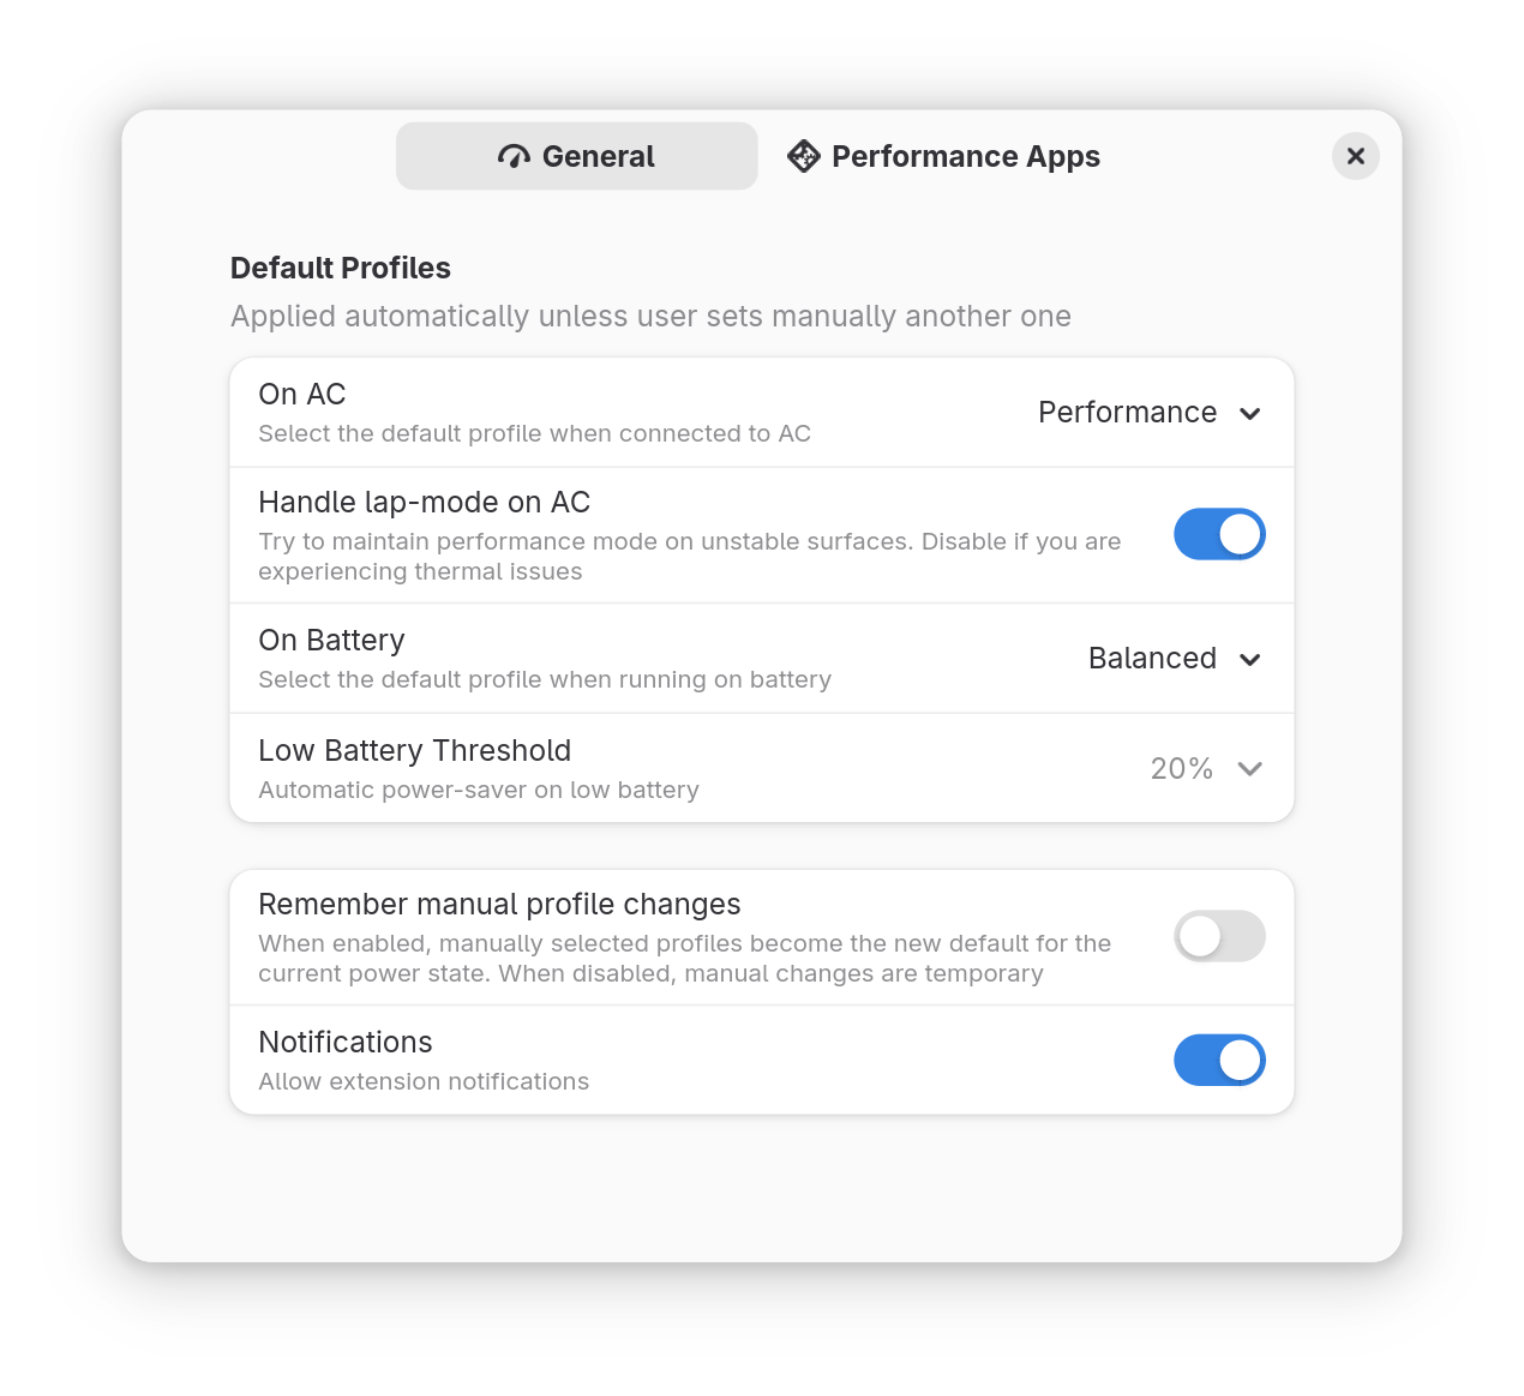
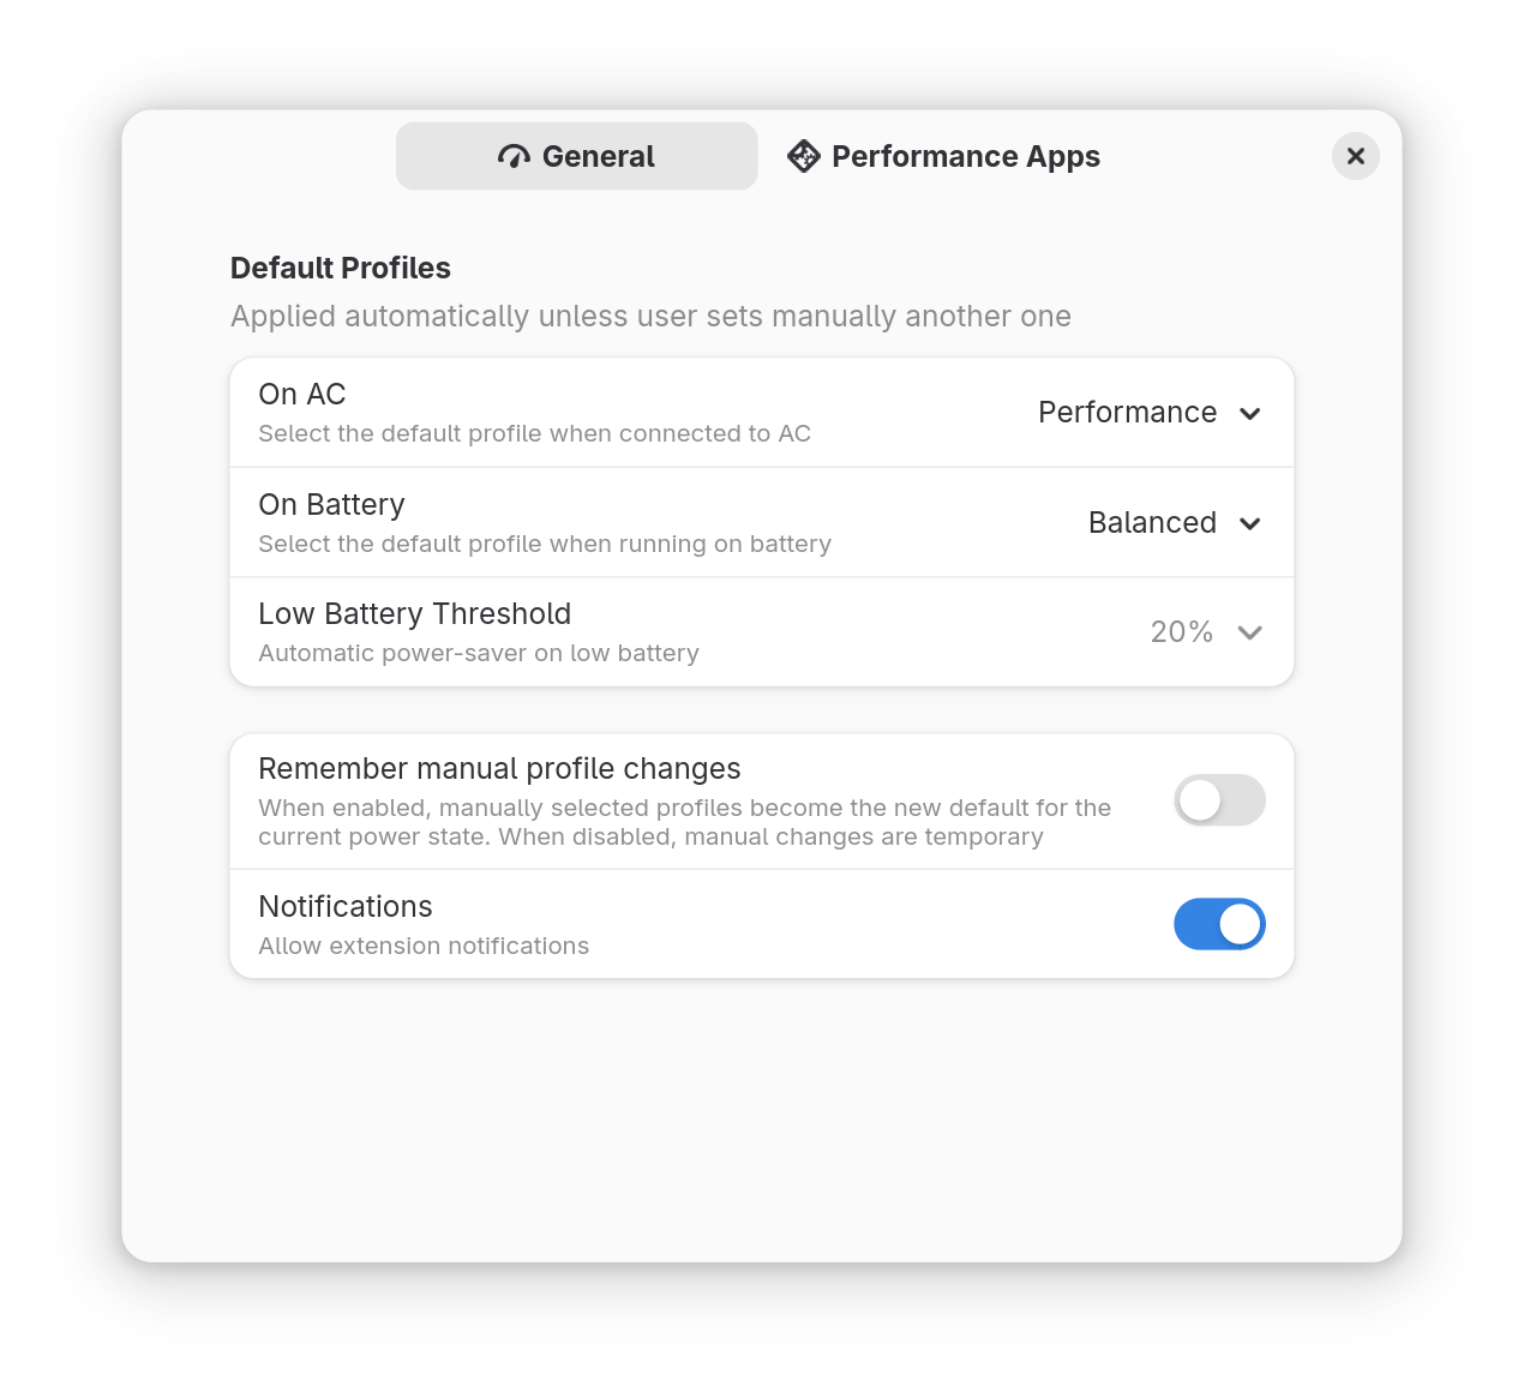
Minor bugfixes, remove confusing "lap-mode" toggle from prefs (#41)

diff --git a/extension.js b/extension.js
@@ -22,6 +22,7 @@ export default class AutoPowerProfile extends Extension {
   _requestedProfile;
 
   _perfDebounceTimerId;
+  _perfDebounceTimeout = 10;
 
   _notifier;
 
@@ -144,6 +145,10 @@ export default class AutoPowerProfile extends Extension {
     const payload = properties?.deep_unpack();
     const powerState = this._getConfiguredPowerState();
 
+    if (!powerState) {
+      return;
+    }
+
     if (payload?.ActiveProfile) {
       if (this._perfDebounceTimerId) {
         GLib.Source.remove(this._perfDebounceTimerId);
@@ -155,11 +160,11 @@ export default class AutoPowerProfile extends Extension {
 
         if (this._currentProfile === this._requestedProfile) {
           // This was our requested change - mark as complete
-          this.requestedProfile = null;
+          this._requestedProfile = null;
         } else {
           // This appears to be a user-initiated change
           this._onUserProfileChange(this._currentProfile, powerState);
-          this.requestedProfile = null;
+          this._requestedProfile = null;
         }
       }
     }
@@ -168,13 +173,16 @@ export default class AutoPowerProfile extends Extension {
       try {
         const reason = payload?.PerformanceDegraded?.unpack();
 
-        if (reason === "lap-detected" && this._settings.lapModeEnabled) {
+        if (reason === "lap-detected") {
+          // the computer is sitting on the user's lap
+          // has false triggers when device sits stationary on a bit shaky stand/arm
+          // try to re-apply performance profile
           if (this._perfDebounceTimerId) {
             GLib.Source.remove(this._perfDebounceTimerId);
           }
           this._perfDebounceTimerId = GLib.timeout_add_seconds(
             GLib.PRIORITY_DEFAULT,
-            5,
+            this._perfDebounceTimeout,
             () => {
               this._clearCurrentPowerState();
               this._checkProfile();
@@ -183,6 +191,8 @@ export default class AutoPowerProfile extends Extension {
             }
           );
         } else if (reason) {
+          // the computer is close to overheating ("high-operating-temperature")
+          // and other values potentially might be added in newer versions of dbus interface
           console.log(
             `ActiveProfile: ${this._powerProfilesDbus.activeProfile}, PerformanceDegraded: ${reason}`
           );
@@ -204,7 +214,7 @@ export default class AutoPowerProfile extends Extension {
    * @returns {Object} Extended power state with configured profile
    */
   _getConfiguredPowerState() {
-    if (!this._upowerDbus) {
+    if (!this._upowerDbus || !this._powerProfilesDbus) {
       return null;
     }
 
@@ -249,7 +259,7 @@ export default class AutoPowerProfile extends Extension {
   _checkProfile = () => {
     const newState = this._getConfiguredPowerState();
 
-    if (!newState) {
+    if (!newState || !this._powerProfilesDbus) {
       return;
     }
 

diff --git a/prefs.js b/prefs.js
@@ -56,8 +56,6 @@ export const General = GObject.registerClass(
       "ui_group",
       "row_low_battery",
       "low_battery_value",
-      "row_lap_mode",
-      "lap_mode",
       "notifications",
       "remember_user_profile"
     ]
@@ -86,12 +84,6 @@ export const General = GObject.registerClass(
           bindAdwComboRow(this._bat_profile, settings, "bat", indexedProfiles);
 
           settings.bind(
-            "lapmode",
-            this._lap_mode,
-            "active",
-            Gio.SettingsBindFlags.DEFAULT
-          );
-          settings.bind(
             "notifications",
             this._notifications,
             "active",
@@ -103,13 +95,6 @@ export const General = GObject.registerClass(
             "active",
             Gio.SettingsBindFlags.DEFAULT
           );
-
-          const onSettingsUpdate = () => {
-            const acDefault = settings.get_string("ac");
-            this._row_lap_mode.visible = acDefault === "performance";
-          };
-          settings.connect("changed::ac", onSettingsUpdate);
-          onSettingsUpdate();
         })
         .catch((e) => console.error(e));
     }
@@ -146,6 +131,8 @@ export const PerformanceApps = GObject.registerClass(
         title: _("Performance Apps"),
         icon_name: "application-x-executable-symbolic"
       });
+
+      this._settings = settings;
 
       const modesGroup = new Adw.PreferencesGroup({
         title: _("Application-Based Profiles"),

diff --git a/tests/extension.spec.js b/tests/extension.spec.js
@@ -168,7 +168,7 @@ test("handles lap-mode when on performance while pluggen in", async () => {
   jest.runAllTicks();
   expect(p._powerProfilesDbus._proxy.ActiveProfile).toBe("balanced");
 
-  jest.advanceTimersByTime(5000);
+  jest.advanceTimersByTime(10000);
   jest.useRealTimers();
 
   await sleep(10);
@@ -195,7 +195,7 @@ test("ignores lap-mode when on battery", async () => {
   PowerProfilesProxyMock._state.notifyPerformanceDegraded();
   jest.runAllTicks();
 
-  await jest.advanceTimersByTimeAsync(5000);
+  await jest.advanceTimersByTimeAsync(10000);
   jest.useRealTimers();
 
   await sleep(10);

diff --git a/lib/customSettings.js b/lib/customSettings.js
@@ -35,10 +35,6 @@ export class CustomSettings {
     this._settings.set_string("bat", profile);
   }
 
-  get lapModeEnabled() {
-    return this._settings.get_boolean("lapmode");
-  }
-
   get notificationsEnabled() {
     return this._settings.get_boolean("notifications");
   }
@@ -75,7 +71,9 @@ export class CustomSettings {
       "changed::power-saver-profile-on-low-battery",
       callback
     );
-    this._pwrConnectionIds.push(pwrid);
+    if (pwrid !== undefined) {
+      this._pwrConnectionIds.push(pwrid);
+    }
   }
 
   destroy() {

diff --git a/lib/powerProfilesDbus.js b/lib/powerProfilesDbus.js
@@ -43,7 +43,9 @@ export class PowerProfilesDbus {
     }
 
     const id = this._proxy.connect(signal, callback);
-    this._connectionIds.push(id);
+    if (id !== null && id !== undefined) {
+      this._connectionIds.push(id);
+    }
     return id;
   }
 

diff --git a/lib/upowerDbus.js b/lib/upowerDbus.js
@@ -43,7 +43,9 @@ export class UpowerDbus {
     }
 
     const id = this._proxy.connect(signal, callback);
-    this._connectionIds.push(id);
+    if (id !== null && id !== undefined) {
+      this._connectionIds.push(id);
+    }
     return id;
   }
 

diff --git a/tests/__mocks__/resource/org/gnome/shell/extensions/extension.js b/tests/__mocks__/resource/org/gnome/shell/extensions/extension.js
@@ -7,7 +7,6 @@ class Extension {
       bat: "balanced",
       threshold: 25,
       debug: false,
-      lapmode: true,
       "performance-apps": [],
       "performance-apps-ac": "performance",
       "performance-apps-bat": "balanced"
